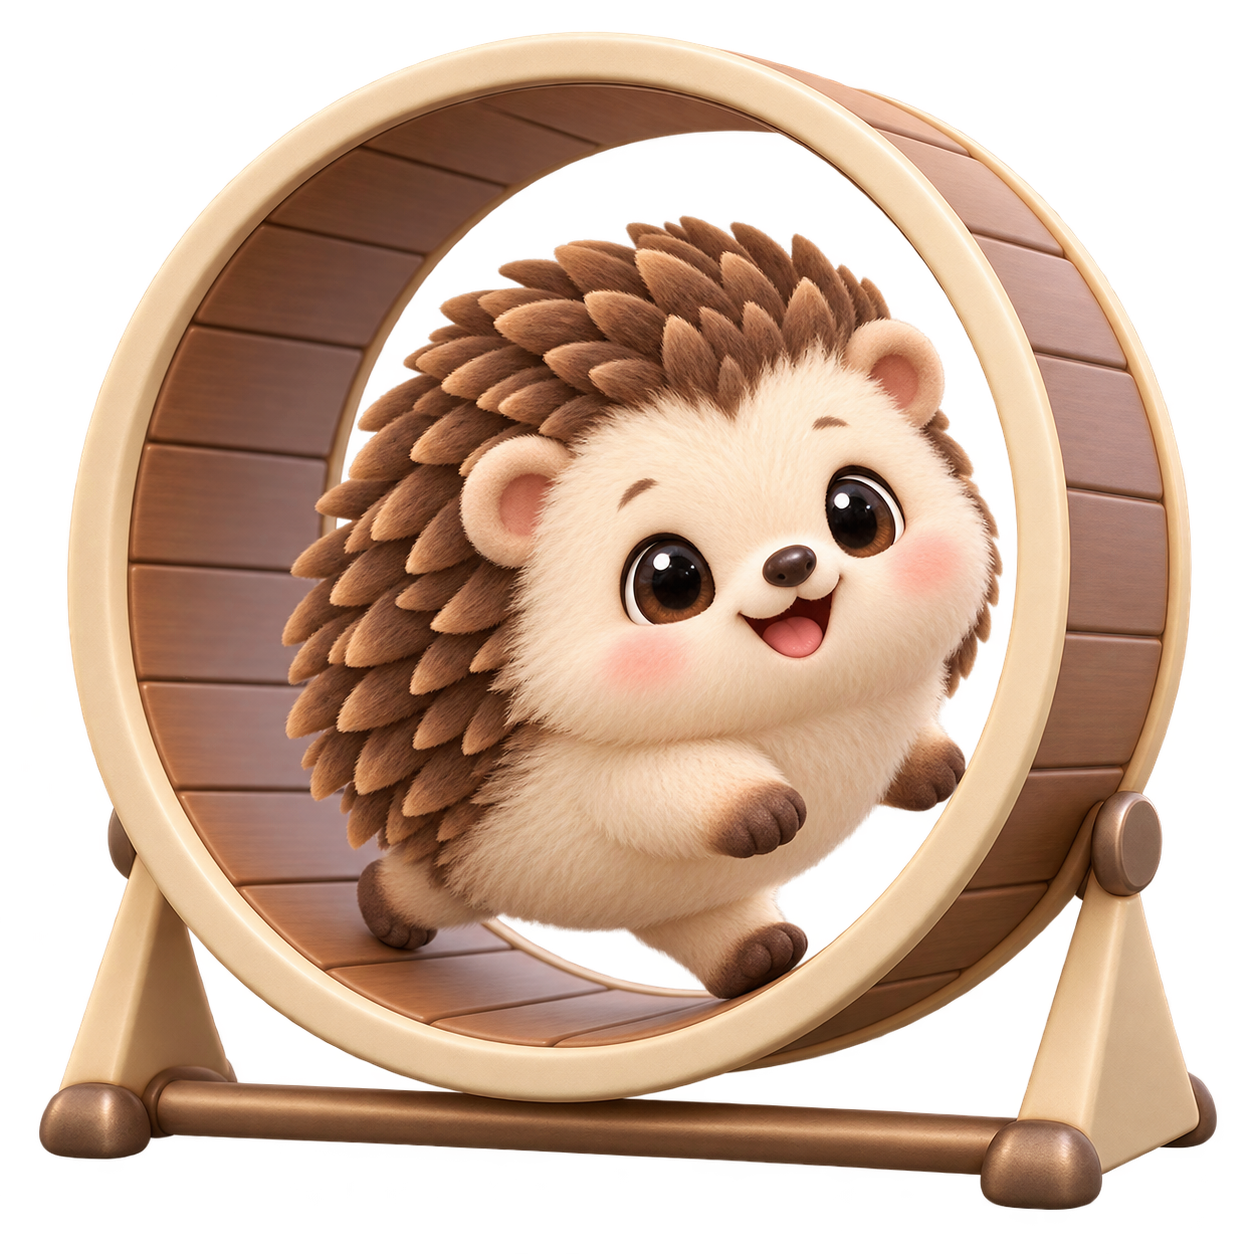
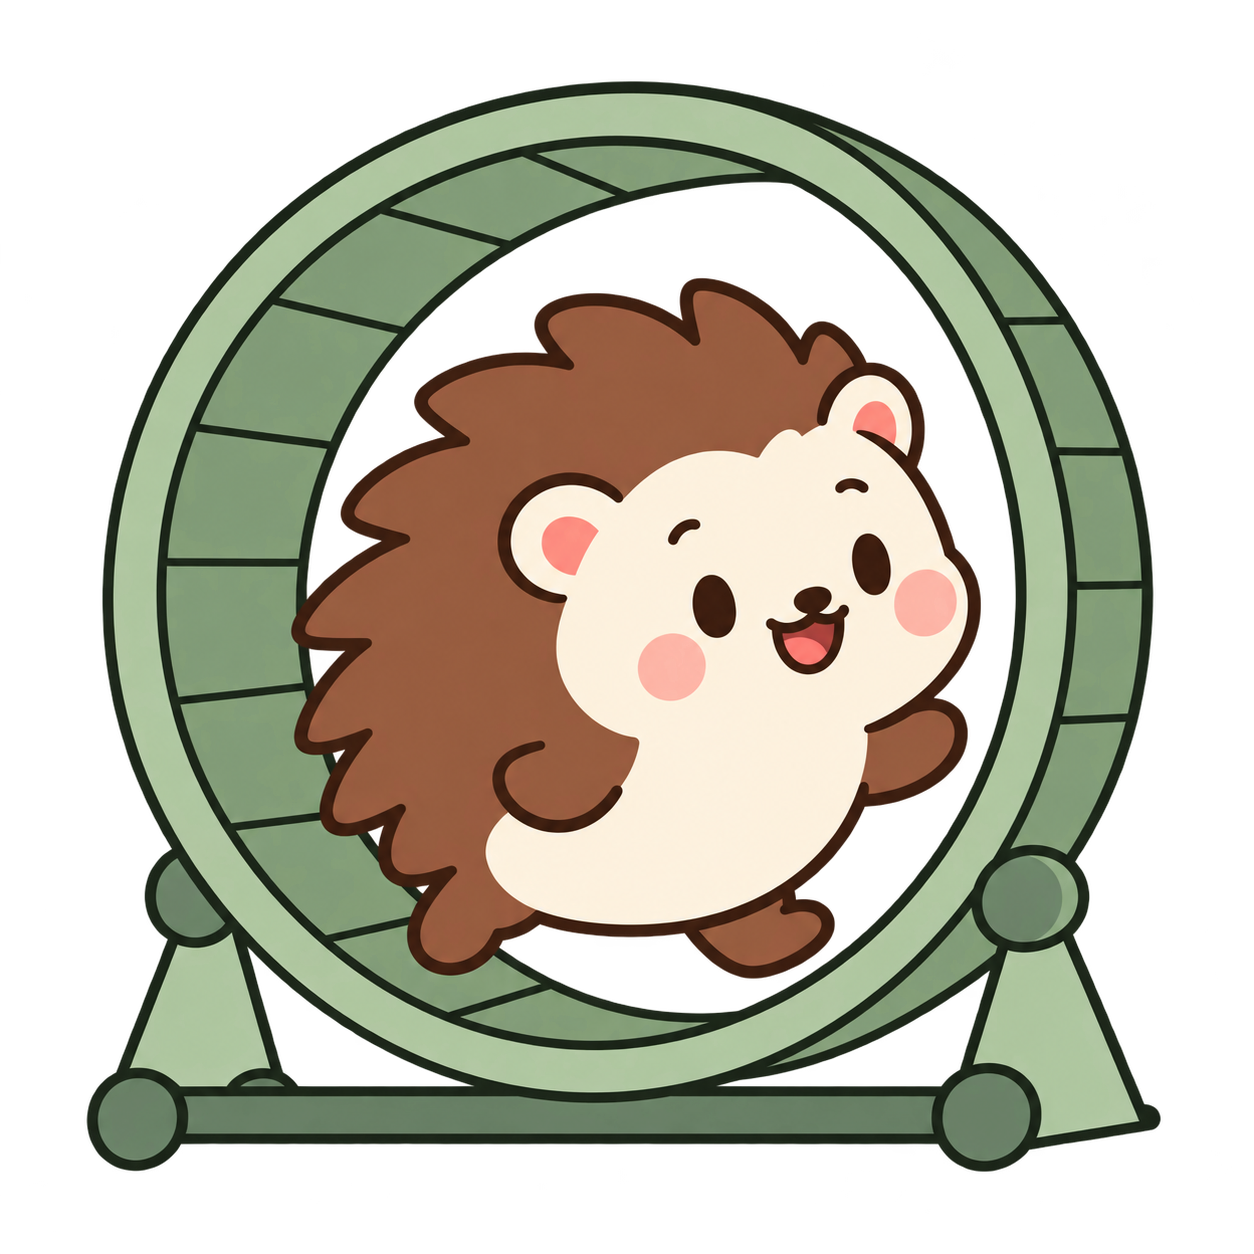
Replace Wickle mascot with approved 2D hedgehog character

diff --git a/assets/mascot/prompt.md b/assets/mascot/prompt.md
@@ -1,23 +1,12 @@
 # Wickle 마스코트 생성 기록
 
-- 생성일: 2026-09-12 (Asia/Seoul)
-- 생성 도구: 내장 `image_gen` 이미지 생성 도구
-- 용도: Wickle README와 프로젝트 소개용 고슴도치 마스코트
-- 파일: [wickle.png](wickle.png)
+- 선택: 사용자 승인 C안, 2026-09-24
+- 생성 도구: 내장 image_gen
+- 형태: 둥근 고슴도치, 분홍 볼터치, 초록색 쳇바퀴의 2D 캐릭터
+- 파일: [wickle.png](wickle.png), 투명 배경 PNG
 
-## 생성 프롬프트
+## 최종 생성 프롬프트
 
 ```text
-Use case: stylized-concept
-Asset type: primary mascot illustration for the README of Wickle, an independent agent engine made by EpsilonDelta.
-
-Create one exceptionally adorable ORIGINAL baby hedgehog mascot joyfully trotting inside a small exercise wheel. The wheel symbolizes the engine's repeating reasoning and tool-use loop. The hedgehog should feel like a tiny, bright, curious, helpful companion that people immediately want to hug.
-
-Subject: a very round, squishy baby hedgehog with a large soft cream face and tummy, tiny round ears, a little button nose, big warm glossy dark eyes with delicate catchlights, subtle rosy cheeks, a small delighted smile, and four very short chubby paws. Keep the muzzle short and cute. Its back has soft chestnut-brown quills simplified into rounded, layered tufts, clearly recognizable as a hedgehog without looking sharp or aggressive. The quills and cream fur have a soft plush texture. Make its face the emotional focal point. A gentle curious head tilt looks toward the viewer while the body is in a believable little running pose.
-
-Scene: just this single hedgehog and its simple exercise wheel with a small stable base. The wheel is understated, with a solid running surface and an open visible front; its rim must not obscure the face. Keep all paws, quills, and the entire wheel visible. No additional characters, props, scenery, lettering, logos, or watermark.
-
-Style: premium soft 3D storybook mascot illustration with a handmade plush and clay feel, softly rounded forms, tactile delicate fur, warm natural colors, gentle diffuse studio lighting, and restrained soft shading. A clean memorable silhouette that remains cute when displayed small. Absolutely original character design, not a copy of an existing mascot or cartoon. Prioritize extreme cuteness and warmth over realism or technical detail.
-
-Composition: square, one centered complete character-and-wheel composition, three-quarter view, balanced breathing room around every edge. The hedgehog occupies a substantial part of the wheel so its face reads clearly at README size. Transparent background with real alpha, clean isolated edges, no white rectangle, no checkerboard, no background scene. Deliver a polished high-resolution PNG mascot asset, not a mockup, not a character sheet, and no text.
+Create the FINAL production mascot asset from the supplied approved comparison board. Use ONLY option C, the RIGHTMOST hedgehog running inside the sage green exercise wheel. Faithfully preserve C's round body, chestnut scalloped quills, cream face and belly, round pink cheek spots, small oval eyes, tiny nose and delighted smile, small rounded paws, running pose, dark warm outline, green circular exercise wheel and simple stand. Produce ONE centered complete character-in-wheel composition, square canvas, generous 6% padding, high resolution. Remove A and B, all letters, the bottom standalone figures and all background. Genuine transparent alpha background, including empty areas inside the wheel. Crisp 2D cartoon illustration, flat solid colors, no 3D, fur texture, gradients, lighting, shadows, glossy highlights or wood grain. Maintain the selected character's appearance, do not redesign its face. No text, no watermark. This is the final Wickle README and webbook hero mascot.
 ```
